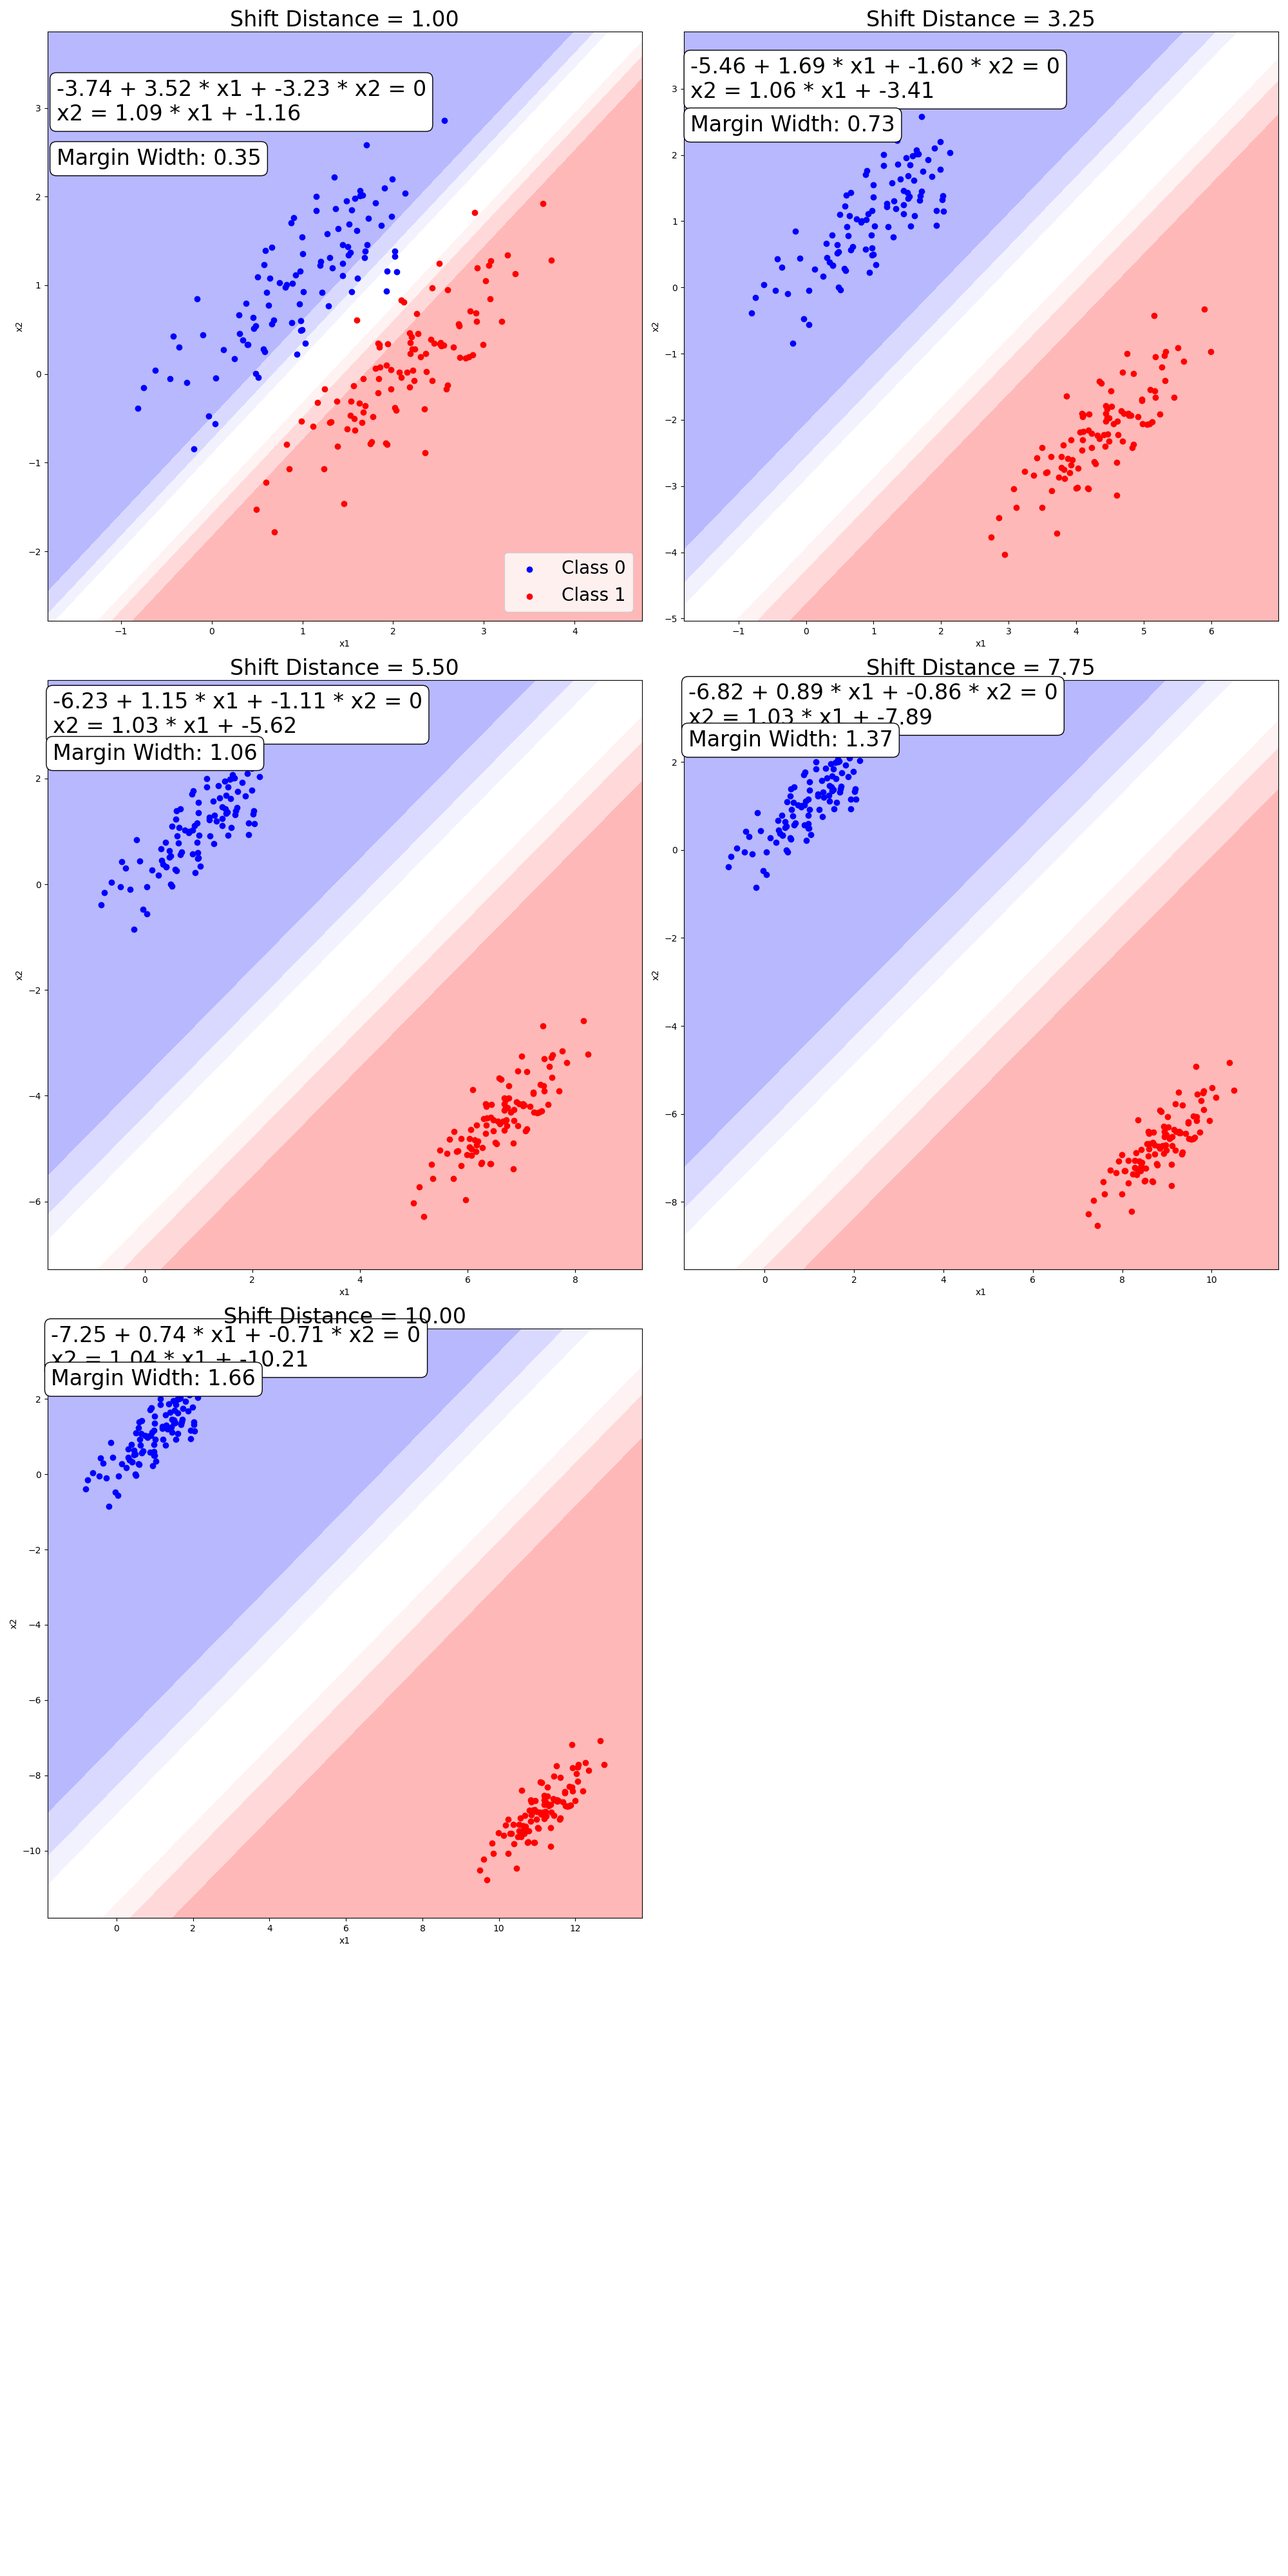
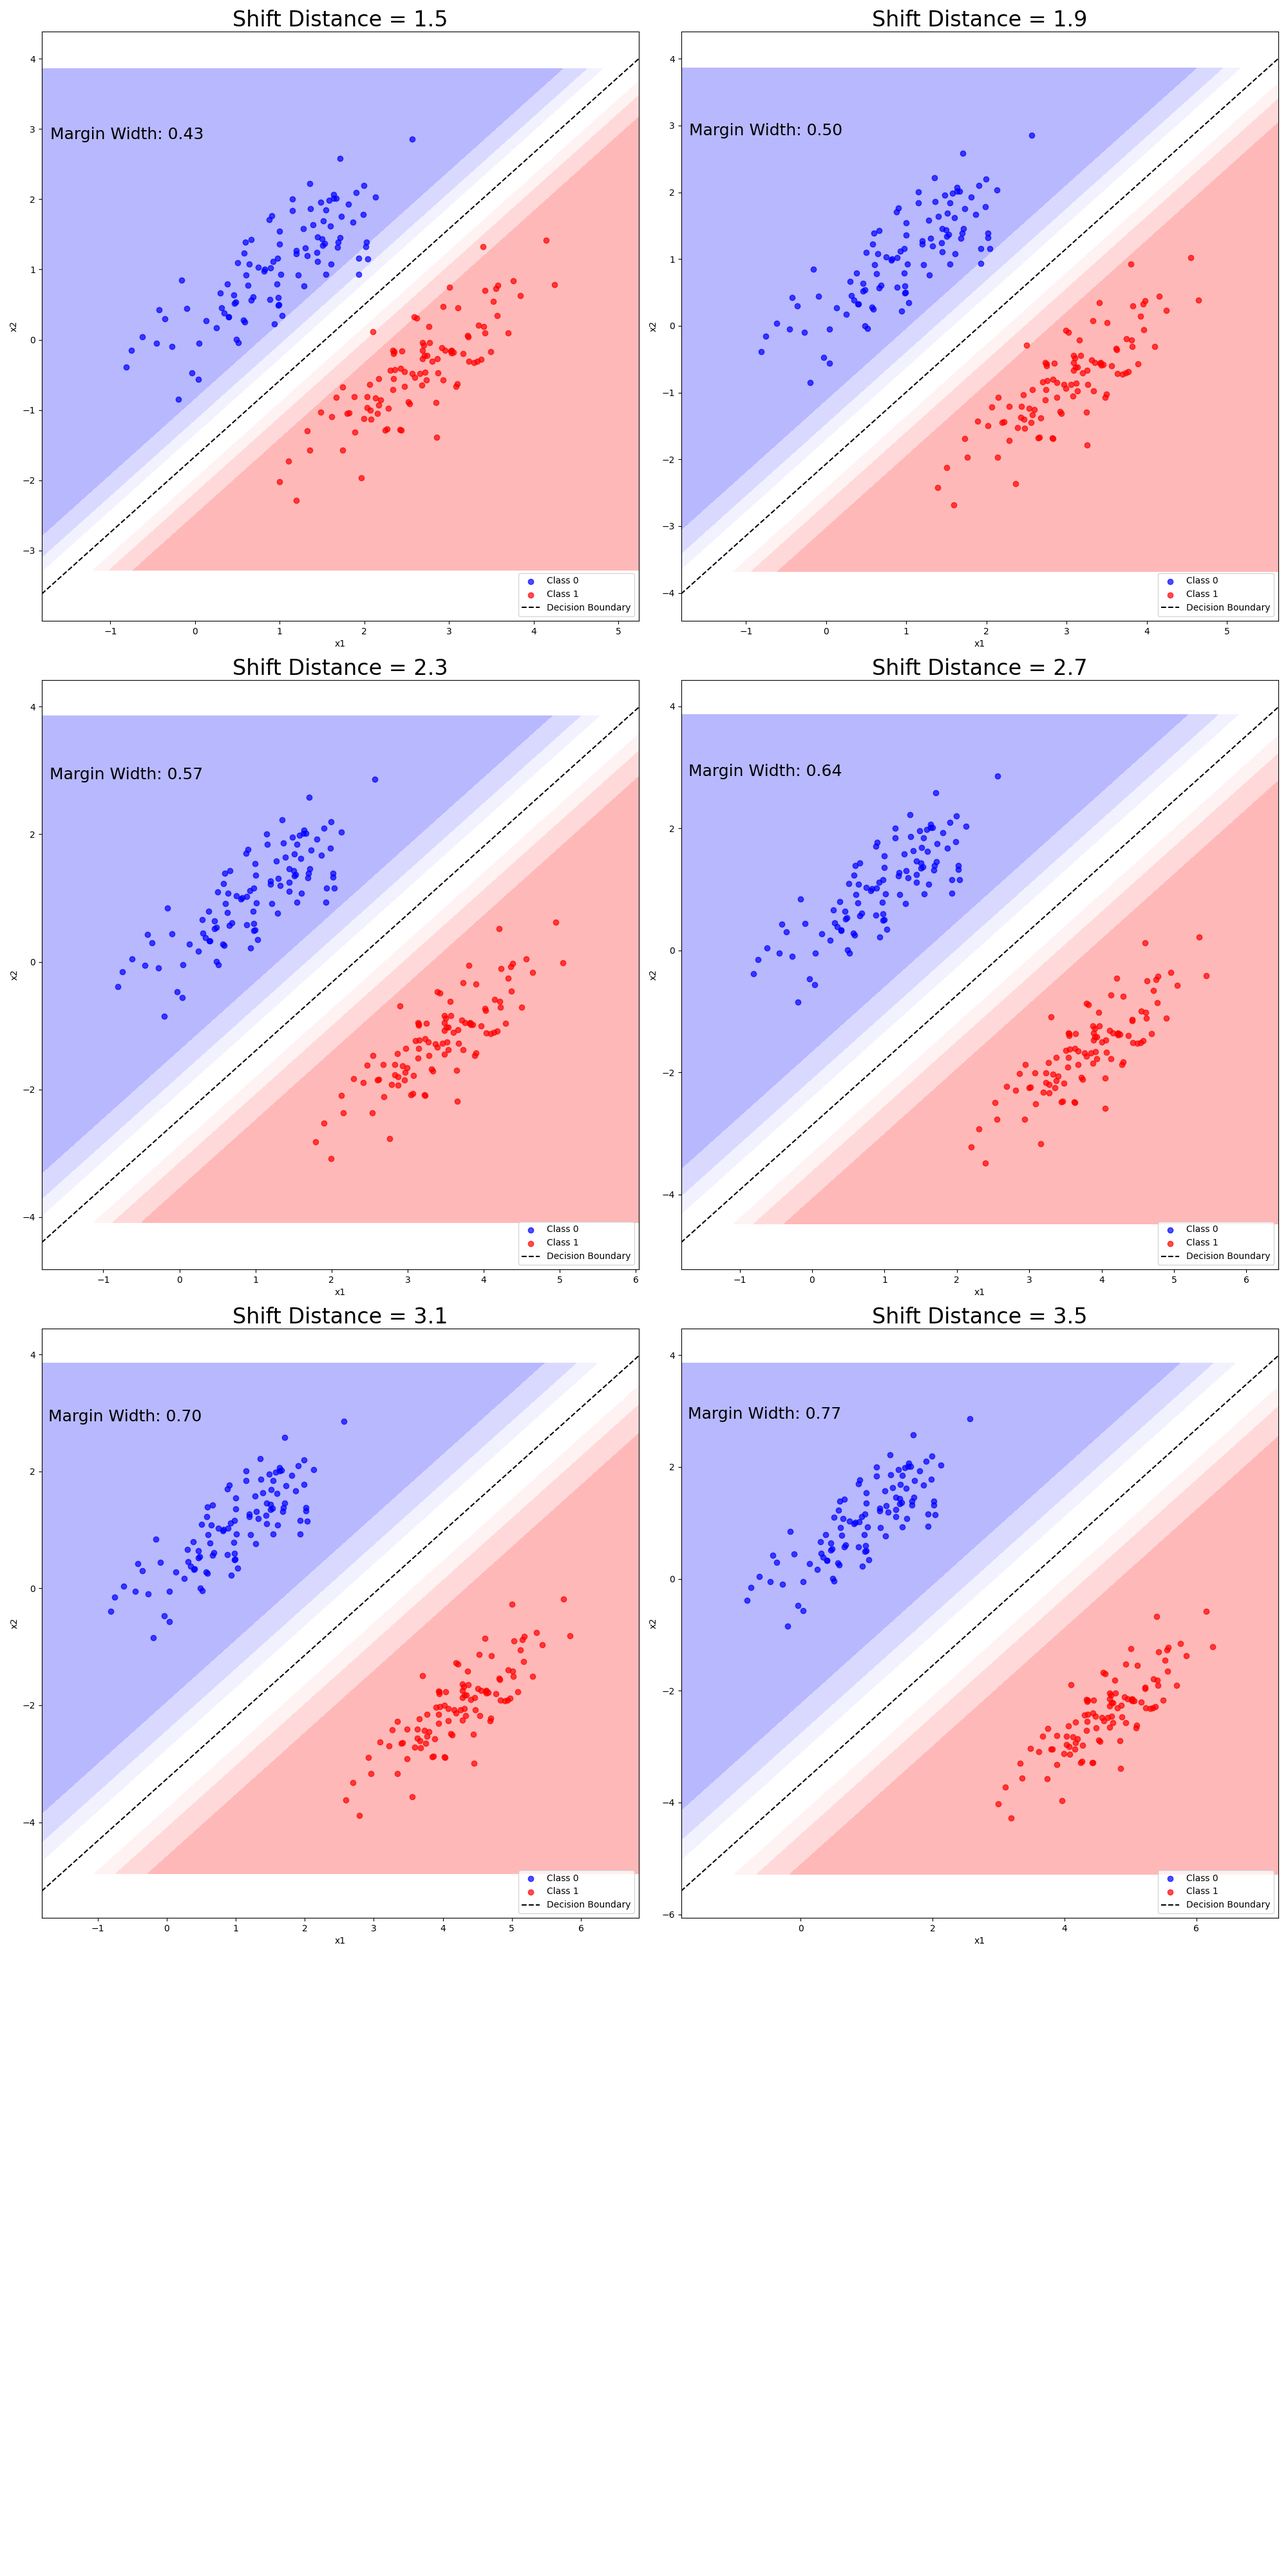
final

diff --git a/logistic_regression.py b/logistic_regression.py
@@ -1,7 +1,7 @@
 import numpy as np
-import matplotlib
-matplotlib.use('Agg')  # Set the backend to Agg for non-GUI environments
 import matplotlib.pyplot as plt
+import matplotlib
+matplotlib.use('Agg')
 from sklearn.linear_model import LogisticRegression
 from scipy.spatial.distance import cdist
 import os
@@ -14,18 +14,21 @@ def generate_ellipsoid_clusters(distance, n_samples=100, cluster_std=0.5):
     covariance_matrix = np.array([[cluster_std, cluster_std * 0.8], 
                                   [cluster_std * 0.8, cluster_std]])
     
+    # Generate the first cluster (class 0)
     X1 = np.random.multivariate_normal(mean=[1, 1], cov=covariance_matrix, size=n_samples)
     y1 = np.zeros(n_samples)
 
+    # Generate the second cluster (class 1)
     X2 = np.random.multivariate_normal(mean=[1, 1], cov=covariance_matrix, size=n_samples)
     
-    X2 += [distance, -distance]
+    # Shift the second cluster along the x and y axes
+    X2 += np.array([distance, -distance])
     y2 = np.ones(n_samples)
 
+    # Combine the clusters into one dataset
     X = np.vstack((X1, X2))
     y = np.hstack((y1, y2))
     return X, y
-
 
 def fit_logistic_regression(X, y):
     model = LogisticRegression()
@@ -35,258 +38,133 @@ def fit_logistic_regression(X, y):
     return model, beta0, beta1, beta2
 
 def do_experiments(start, end, step_num):
-    shift_distances = np.linspace(start, end, step_num)
+    shift_distances = np.linspace(start, end, step_num)  # Range of shift distances
     beta0_list, beta1_list, beta2_list, slope_list, intercept_list, loss_list, margin_widths = [], [], [], [], [], [], []
-
     sample_data = {}
+
     n_samples = 8
-
-    n_cols = 2  # Fixed number of columns
-
-    n_rows = (n_samples + n_cols - 1) // n_cols  # Calculate rows needed
-
-    plt.figure(figsize=(20, n_rows * 10))  # Adjust figure height based on rows
-
-    # Run experiments for each shift distance
+    n_cols = 2
+    n_rows = (n_samples + n_cols - 1) // n_cols
+    plt.figure(figsize=(20, n_rows * 10))
 
     for i, distance in enumerate(shift_distances, 1):
-
         X, y = generate_ellipsoid_clusters(distance=distance)
+        if X is None or y is None or len(X) == 0 or len(y) == 0:
+            print(f"Error: Empty dataset for distance {distance}")
+            continue
 
+        # Fit logistic regression and extract coefficients
         model, beta0, beta1, beta2 = fit_logistic_regression(X, y)
-
-        
-
-        # Record parameters
+        if beta2 == 0:
+            print(f"Error: beta2 is zero for distance {distance}. Skipping.")
+            continue
+        slope = -beta1 / beta2
+        intercept = -beta0 / beta2
         beta0_list.append(beta0)
         beta1_list.append(beta1)
         beta2_list.append(beta2)
-
-
-
-        # Calculate and store slope and intercept
-
-        slope = -beta1 / beta2
-
-        intercept = -beta0 / beta2
-
         slope_list.append(slope)
-
         intercept_list.append(intercept)
 
-
-
-        # Plot dataset
-
+        # Plot the dataset
         plt.subplot(n_rows, n_cols, i)
+        plt.scatter(X[y == 0][:, 0], X[y == 0][:, 1], c='blue', label='Class 0', alpha=0.7)
+        plt.scatter(X[y == 1][:, 0], X[y == 1][:, 1], c='red', label='Class 1', alpha=0.7)
 
-        plt.scatter(X[y == 0, 0], X[y == 0, 1], color='blue', label='Class 0')
-
-        plt.scatter(X[y == 1, 0], X[y == 1, 1], color='red', label='Class 1')
-
-
-
-        # Calculate margin width between 70% confidence contours for each class
-
+        # Plot the decision boundary
         x_min, x_max = X[:, 0].min() - 1, X[:, 0].max() + 1
-
         y_min, y_max = X[:, 1].min() - 1, X[:, 1].max() + 1
+        x_values = np.linspace(x_min, x_max, 200)
+        decision_boundary = slope * x_values + intercept
+        plt.plot(x_values, decision_boundary, 'k--', label="Decision Boundary")
 
+        # Calculate logistic loss
+        probabilities = model.predict_proba(X)
+        logistic_loss = -np.mean(y * np.log(probabilities[:, 1]) + (1 - y) * np.log(1 - probabilities[:, 1]))
+        loss_list.append(logistic_loss)
+
+        # Calculate margin width
         xx, yy = np.meshgrid(np.linspace(x_min, x_max, 200), np.linspace(y_min, y_max, 200))
-
-        Z = model.predict_proba(np.c_[xx.ravel(), yy.ravel()])[:, 1]
-
-        Z = Z.reshape(xx.shape)
-
-        
-
-        # Plot confidence contours
-
+        Z = model.predict_proba(np.c_[xx.ravel(), yy.ravel()])[:, 1].reshape(xx.shape)
         contour_levels = [0.7, 0.8, 0.9]
-
         alphas = [0.05, 0.1, 0.15]
-
+        min_distance = None
         for level, alpha in zip(contour_levels, alphas):
+            try:
+                class_1_contour = plt.contourf(xx, yy, Z, levels=[level, 1.0], colors=['red'], alpha=alpha)
+                class_0_contour = plt.contourf(xx, yy, Z, levels=[0.0, 1 - level], colors=['blue'], alpha=alpha)
+                if level == 0.7:
+                    distances = cdist(class_1_contour.collections[0].get_paths()[0].vertices,
+                                      class_0_contour.collections[0].get_paths()[0].vertices, metric='euclidean')
+                    min_distance = np.min(distances)
+                    margin_widths.append(min_distance)
+            except Exception as e:
+                print(f"Error in margin width calculation for distance {distance}: {e}")
+                margin_widths.append(None)
 
-            class_1_contour = plt.contourf(xx, yy, Z, levels=[level, 1.0], colors=['red'], alpha=alpha)
-
-            class_0_contour = plt.contourf(xx, yy, Z, levels=[0.0, 1 - level], colors=['blue'], alpha=alpha)
-
-            if level == 0.7:
-
-                distances = cdist(class_1_contour.collections[0].get_paths()[0].vertices,
-
-                                class_0_contour.collections[0].get_paths()[0].vertices,
-
-                                metric='euclidean')
-
-                min_distance = np.min(distances)
-
-                margin_widths.append(min_distance)
-
-
-
-        plt.title(f"Shift Distance = {distance:.2f}", fontsize=24)
-
+        # Add plot annotations
+        plt.title(f"Shift Distance = {distance}", fontsize=24)
         plt.xlabel("x1")
-
         plt.ylabel("x2")
-
-        
-
-        # Add equation and margin width text
-
-        equation_text = f"{beta0:.2f} + {beta1:.2f} * x1 + {beta2:.2f} * x2 = 0\nx2 = {slope:.2f} * x1 + {intercept:.2f}"
-
-        margin_text = f"Margin Width: {min_distance:.2f}"
-
-        plt.text(x_min + 0.1, y_max - 1.0, equation_text, fontsize=24, color="black",
-
-                bbox=dict(facecolor='white', edgecolor='black', boxstyle='round,pad=0.3'))
-
-        plt.text(x_min + 0.1, y_max - 1.5, margin_text, fontsize=24, color="black",
-
-                bbox=dict(facecolor='white', edgecolor='black', boxstyle='round,pad=0.3'))
-
-
-
-        if i == 1:
-
-            plt.legend(loc='lower right', fontsize=20)
-
-
+        if min_distance:
+            plt.text(x_min + 0.1, y_max - 1.0, f"Margin Width: {min_distance:.2f}", fontsize=18)
+        plt.legend(loc='lower right')
 
         sample_data[distance] = (X, y, model, beta0, beta1, beta2, min_distance)
 
-
-
     plt.tight_layout()
-
     plt.savefig(f"{result_dir}/dataset.png")
 
-
-
     # Plot parameters vs. shift distance
-
     plt.figure(figsize=(18, 15))
-
-    
-
-    # Beta0 plot
-
     plt.subplot(3, 3, 1)
-
-    plt.plot(shift_distances, beta0_list, 'b-')
-
+    plt.plot(shift_distances, beta0_list, marker='o')
     plt.title("Shift Distance vs Beta0")
-
     plt.xlabel("Shift Distance")
-
     plt.ylabel("Beta0")
 
-    
-
-    # Beta1 plot
-
     plt.subplot(3, 3, 2)
-
-    plt.plot(shift_distances, beta1_list, 'r-')
-
-    plt.title("Shift Distance vs Beta1 (Coefficient for x1)")
-
+    plt.plot(shift_distances, beta1_list, marker='o')
+    plt.title("Shift Distance vs Beta1")
     plt.xlabel("Shift Distance")
-
     plt.ylabel("Beta1")
 
-    
-
-    # Beta2 plot
-
     plt.subplot(3, 3, 3)
-
-    plt.plot(shift_distances, beta2_list, 'g-')
-
-    plt.title("Shift Distance vs Beta2 (Coefficient for x2)")
-
+    plt.plot(shift_distances, beta2_list, marker='o')
+    plt.title("Shift Distance vs Beta2")
     plt.xlabel("Shift Distance")
-
     plt.ylabel("Beta2")
 
-    
-
-    # Slope plot
-
     plt.subplot(3, 3, 4)
-
-    plt.plot(shift_distances, slope_list, 'm-')
-
-    plt.title("Shift Distance vs Beta1 / Beta2 (Slope)")
-
+    plt.plot(shift_distances, slope_list, marker='o')
+    plt.title("Shift Distance vs Slope")
     plt.xlabel("Shift Distance")
-
     plt.ylabel("Beta1 / Beta2")
 
-    plt.ylim(-2, 0)
-
-    
-
-    # Intercept ratio plot
-
     plt.subplot(3, 3, 5)
-
-    plt.plot(shift_distances, [-b0/b2 for b0, b2 in zip(beta0_list, beta2_list)], 'c-')
-
-    plt.title("Shift Distance vs Beta0 / Beta2 (Intercept Ratio)")
-
+    intercept_ratio = np.array(beta0_list) / np.array(beta2_list)
+    plt.plot(shift_distances, intercept_ratio, marker='o')
+    plt.title("Shift Distance vs Intercept Ratio")
     plt.xlabel("Shift Distance")
-
     plt.ylabel("Beta0 / Beta2")
 
-    
-
-    # Margin width plot
+    plt.subplot(3, 3, 6)
+    plt.plot(shift_distances, loss_list, marker='o')
+    plt.title("Shift Distance vs Logistic Loss")
+    plt.xlabel("Shift Distance")
+    plt.ylabel("Logistic Loss")
 
     plt.subplot(3, 3, 7)
-
-    plt.plot(shift_distances, margin_widths, 'k-')
-
+    plt.plot(shift_distances, margin_widths, marker='o')
     plt.title("Shift Distance vs Margin Width")
-
     plt.xlabel("Shift Distance")
-
     plt.ylabel("Margin Width")
 
-    
-
     plt.tight_layout()
-
     plt.savefig(f"{result_dir}/parameters_vs_shift_distance.png")
 
-
-
 if __name__ == "__main__":
-
     start = 0.25
-
     end = 2.0
-
     step_num = 8
-
     do_experiments(start, end, step_num)
-
-
-
-
-
-
-
-
-
-
-
-
-
-
-
-
-
